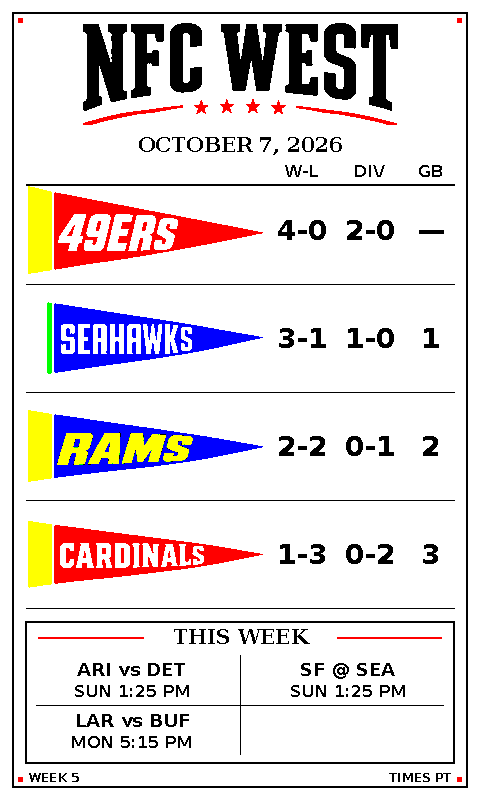
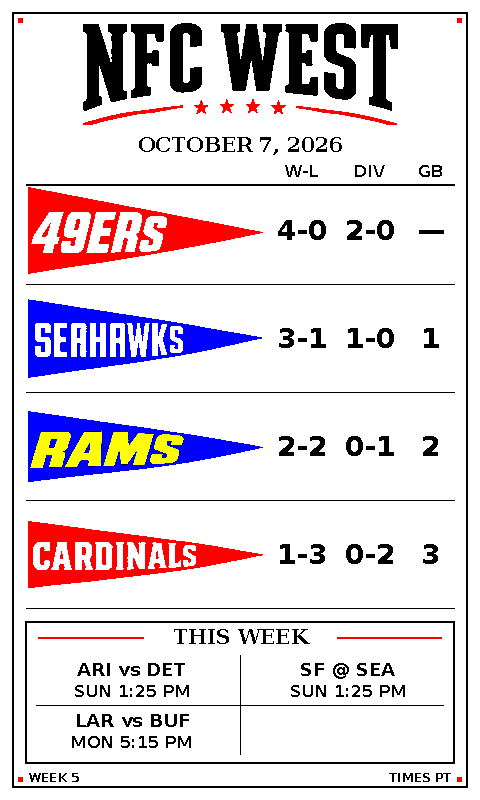
Remove left hoist bands from text-only pennants

Changed region(s): [[0.0312, 0.5, 0.4375, 0.75], [0.0312, 0.2188, 0.375, 0.3438], [0.0312, 0.375, 0.4062, 0.4688]]

diff --git a/render_nfl.py b/render_nfl.py
@@ -318,13 +318,13 @@ def load_pennant(abbr: str, style: str = "illustrated") -> Image.Image:
     uniform footprint.
     """
     if style == "text":
-        # Regions in the generated exploration sheet. Kept as a separate asset
-        # so the original illustrated pennants remain available unchanged.
+        # Use only the triangular fields, excluding the left hoist bands and
+        # their white separators. Keep the lettering from the source unchanged.
         boxes = {
-            "SF": (23, 30, 1067, 419),
-            "SEA": (23, 436, 1067, 780),
-            "LAR": (23, 794, 1067, 1111),
-            "ARI": (23, 1122, 1067, 1420),
+            "SF": (142, 58, 1067, 400),
+            "SEA": (142, 454, 1067, 762),
+            "LAR": (142, 813, 1067, 1092),
+            "ARI": (142, 1139, 1067, 1400),
         }
         with Image.open(ASSETS / "text-only-pennants.png") as sheet:
             pennant = sheet.crop(boxes[abbr]).convert("RGBA")
